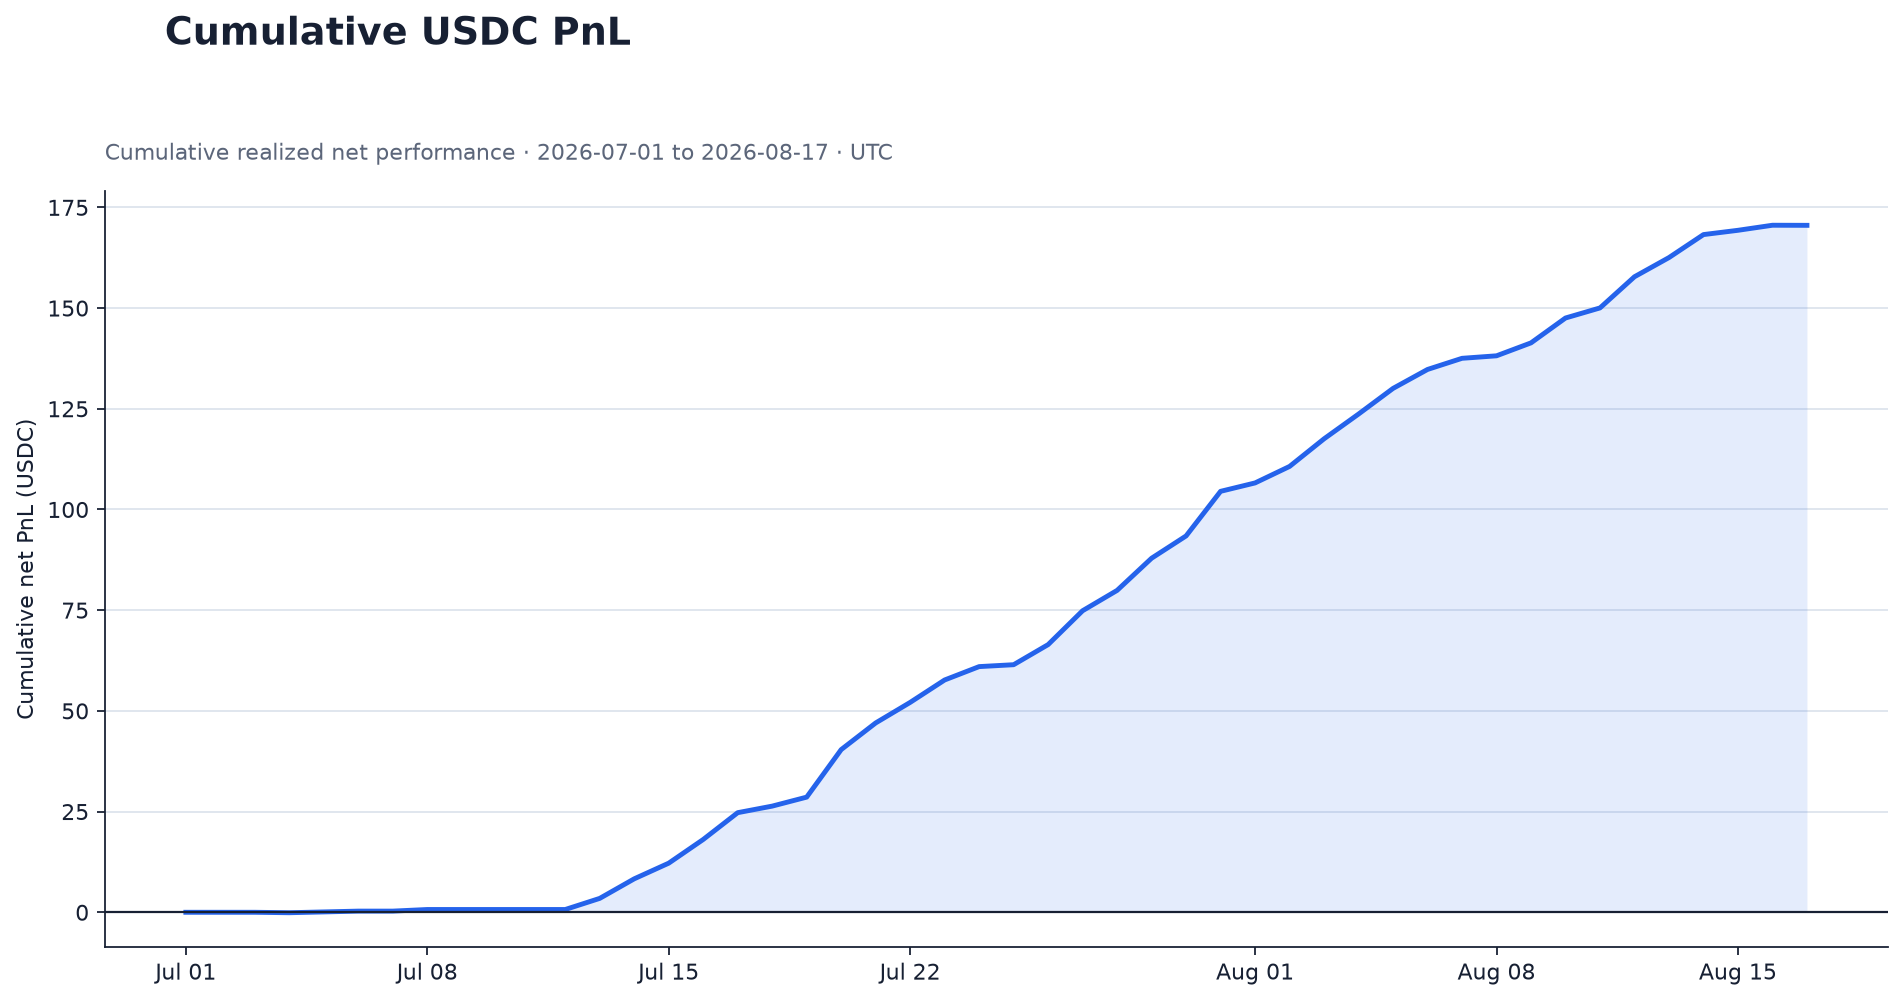
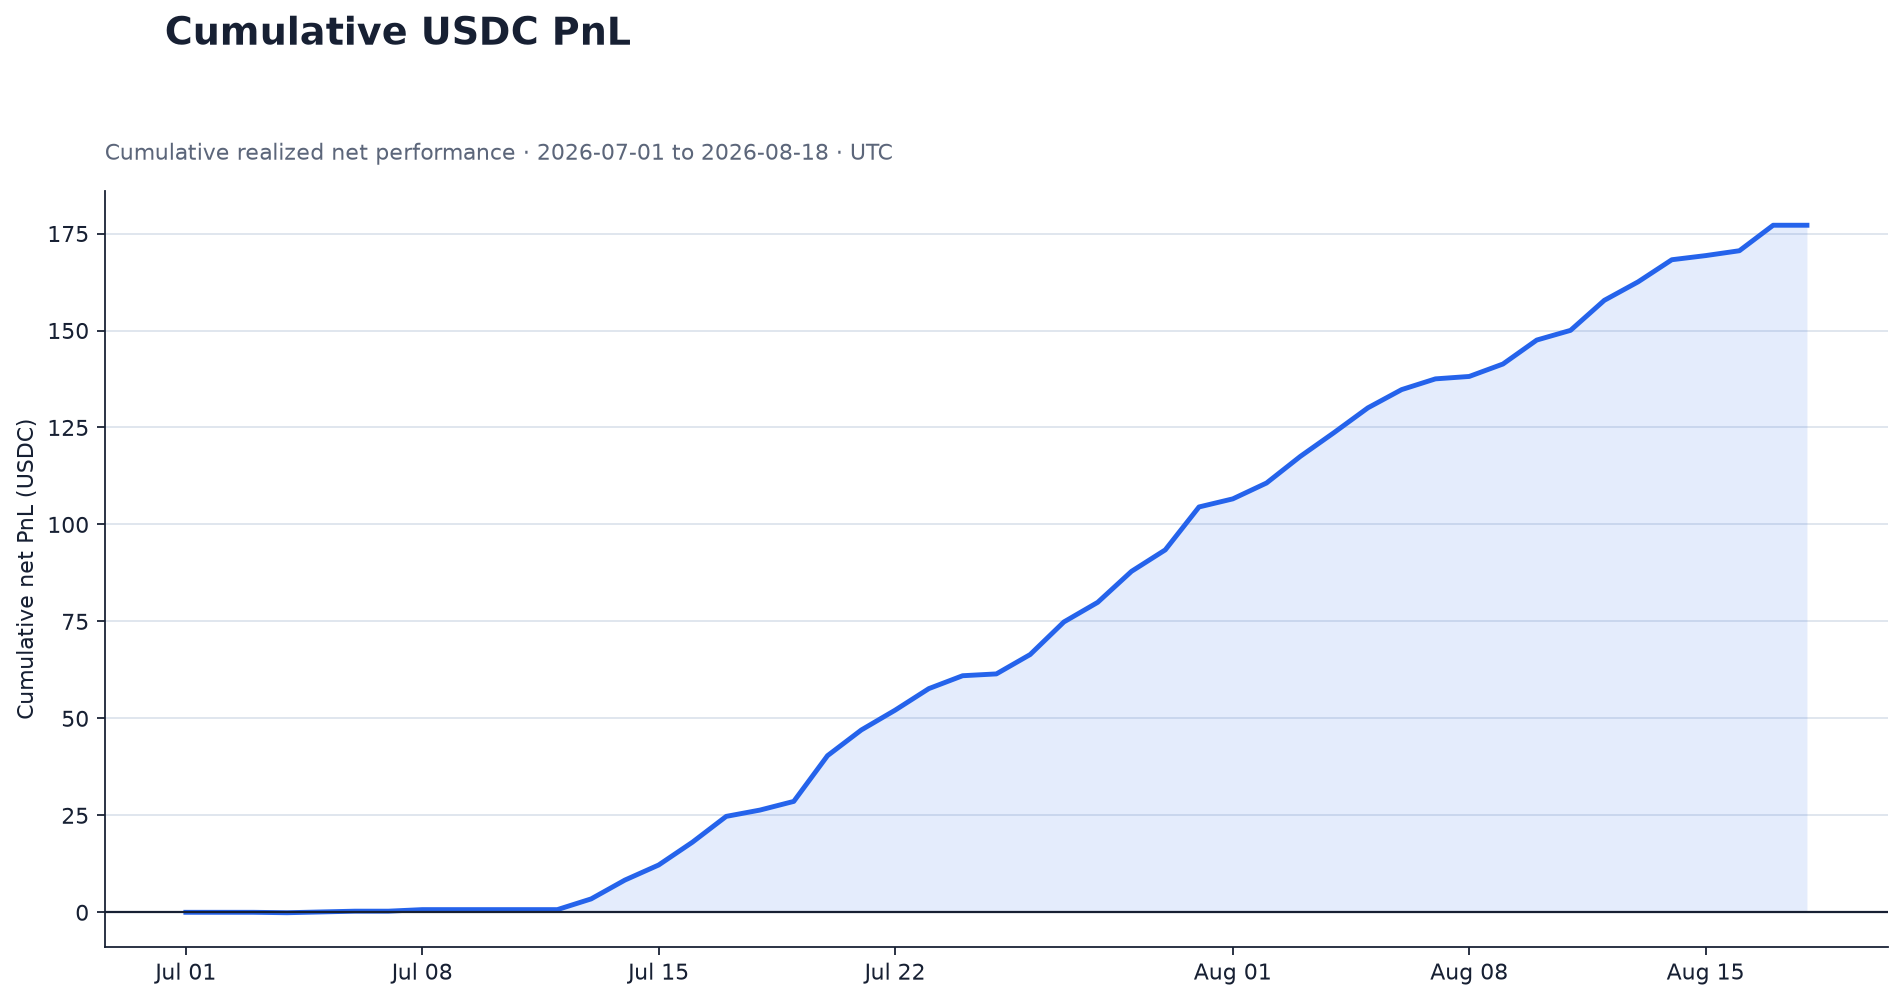
chore: update USDC performance

diff --git a/reports/performance_summary.md b/reports/performance_summary.md
@@ -1,7 +1,7 @@
 # Performance Summary
 
-Generated at: **2026-08-17T00:10:08Z**<br>
-Coverage: **2026-07-01 to 2026-08-17 (UTC)**<br>
+Generated at: **2026-08-18T00:10:07Z**<br>
+Coverage: **2026-07-01 to 2026-08-18 (UTC)**<br>
 Scope: **Daily USDC USD-M Futures realized performance**
 
 Absolute account values are not published. USD-M Futures transfers are excluded from trading return.
@@ -9,23 +9,23 @@ Sharpe and Sortino use private total daily returns including unrealized PnL; unr
 
 | Metric | Value |
 |---|---:|
-| Cumulative Return | 3.83% |
-| Latest Daily Return | -0.00% |
-| Annualized Return | 35.69% |
+| Cumulative Return | 3.98% |
+| Latest Daily Return | 0.00% |
+| Annualized Return | 36.31% |
 | Annualized Volatility | 1.28% |
-| Sharpe Ratio | 6.135068 |
-| Sortino Ratio | 11.040983 |
+| Sharpe Ratio | 6.347997 |
+| Sortino Ratio | 11.420464 |
 | Maximum Drawdown | -0.01% |
-| Calmar Ratio | 3907.245035 |
-| Win Rate | 95.00% |
-| Profit Factor | 1291.367558 |
-| Total Realized Pnl Usdc | 168.959199 |
+| Calmar Ratio | 3975.176428 |
+| Win Rate | 97.50% |
+| Profit Factor | 1617.936180 |
+| Total Realized Pnl Usdc | 175.463299 |
 | Total Commission Usdc | -0.075227 |
-| Total Funding Fee Usdc | 1.660735 |
-| Total Net Pnl Usdc | 170.544706 |
+| Total Funding Fee Usdc | 1.751071 |
+| Total Net Pnl Usdc | 177.139142 |
 | Number Of Trading Days | 40 |
-| Number Of Trades | 1198 |
-| Valid Return Days | 45 |
+| Number Of Trades | 1243 |
+| Valid Return Days | 46 |
 | Excluded Return Days | 3 |
 | Annualization Factor | 365 |
 
